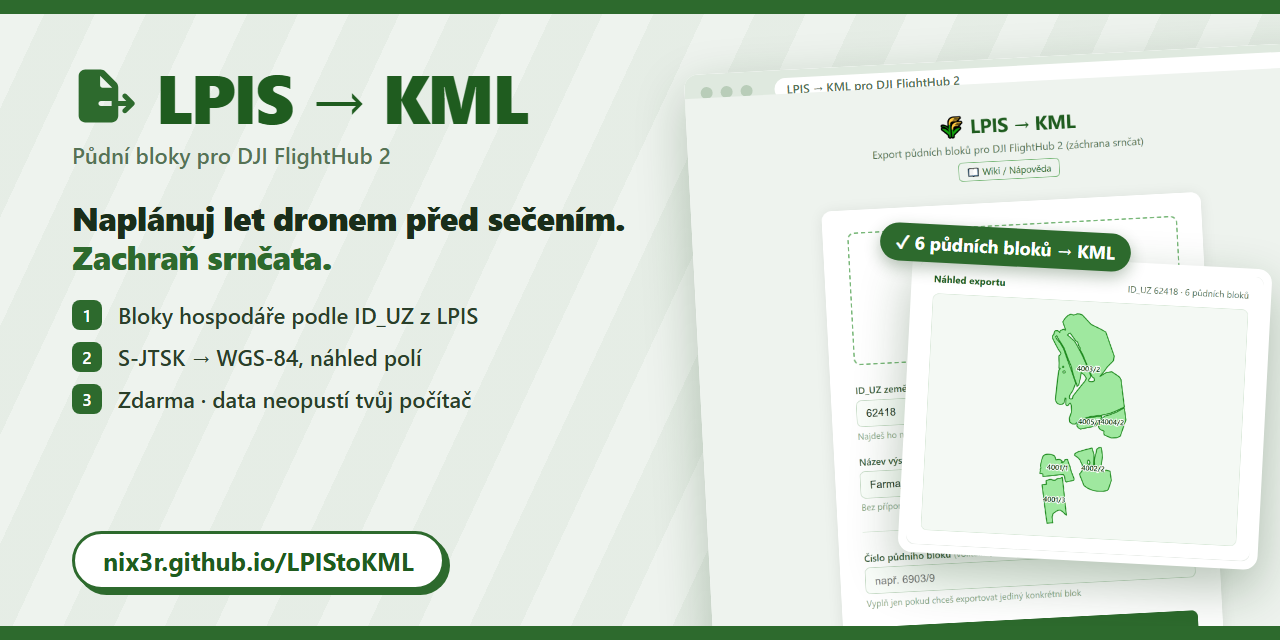
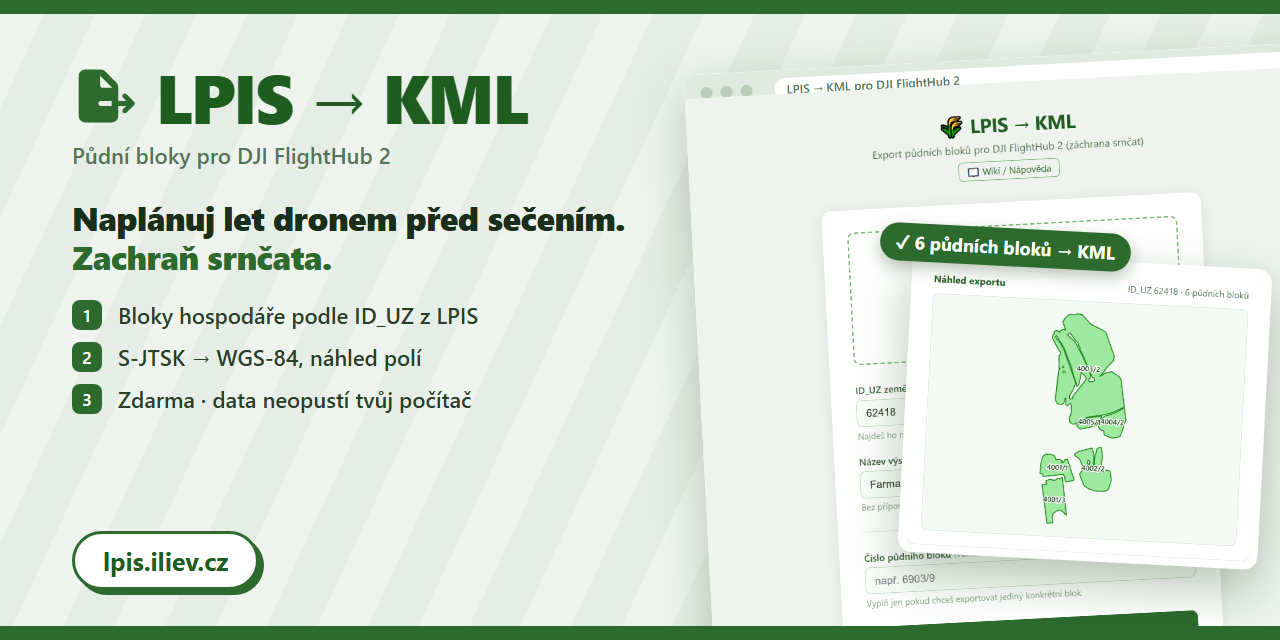
Custom domain lpis.iliev.cz: link previews, README links, og:image

Changed region(s): [[0.0625, 0.8125, 0.375, 0.9375]]

diff --git a/web/index.html b/web/index.html
@@ -13,8 +13,8 @@
   <meta property="og:locale" content="cs_CZ" />
   <meta property="og:title" content="LPIS → KML pro DJI FlightHub 2" />
   <meta property="og:description" content="Půdní bloky hospodáře z LPIS jako KML pro DJI FlightHub 2. Naplánuj let dronem před sečením a zachraň srnčata. Zdarma, data neopustí tvůj počítač." />
-  <meta property="og:url" content="https://nix3r.github.io/LPIStoKML/" />
-  <meta property="og:image" content="https://nix3r.github.io/LPIStoKML/og-image.png" />
+  <meta property="og:url" content="https://lpis.iliev.cz/" />
+  <meta property="og:image" content="https://lpis.iliev.cz/og-image.png" />
   <meta property="og:image:width" content="1280" />
   <meta property="og:image:height" content="640" />
   <meta property="og:image:alt" content="LPIS → KML: převodník půdních bloků s náhledem exportovaných polí" />

diff --git a/web/wiki.html b/web/wiki.html
@@ -12,8 +12,8 @@
   <meta property="og:locale" content="cs_CZ" />
   <meta property="og:title" content="Wiki – LPIS → KML pro DJI FlightHub 2" />
   <meta property="og:description" content="Návod krok za krokem: ID_UZ, stažení SHP dat z LPIS, převod na KML a import do DJI FlightHub 2." />
-  <meta property="og:url" content="https://nix3r.github.io/LPIStoKML/wiki.html" />
-  <meta property="og:image" content="https://nix3r.github.io/LPIStoKML/og-image.png" />
+  <meta property="og:url" content="https://lpis.iliev.cz/wiki.html" />
+  <meta property="og:image" content="https://lpis.iliev.cz/og-image.png" />
   <meta property="og:image:width" content="1280" />
   <meta property="og:image:height" content="640" />
   <meta property="og:image:alt" content="LPIS → KML: převodník půdních bloků s náhledem exportovaných polí" />

diff --git a/tools/og-image.html b/tools/og-image.html
@@ -84,7 +84,7 @@
       <li><span>3</span>Zdarma · data neopustí tvůj počítač</li>
     </ul>
   </div>
-  <div class="url">nix3r.github.io/LPIStoKML</div>
+  <div class="url">lpis.iliev.cz</div>
 
   <div class="window">
     <div class="bar"><i></i><i></i><i></i><b>LPIS → KML pro DJI FlightHub 2</b></div>

diff --git a/README.md b/README.md
@@ -4,9 +4,9 @@ A web app that converts Czech agricultural land parcel data (LPIS) from Shapefil
 
 Primary use case: scanning fields with a drone before mowing to rescue fawns and other wildlife.
 
-[![LPIS → KML](docs/images/thumbnail.png)](https://nix3r.github.io/LPIStoKML/)
+[![LPIS → KML](docs/images/thumbnail.png)](https://lpis.iliev.cz/)
 
-**▶ Live app: [nix3r.github.io/LPIStoKML](https://nix3r.github.io/LPIStoKML/)** · [Wiki (CZ)](https://nix3r.github.io/LPIStoKML/wiki.html)
+**▶ Live app: [lpis.iliev.cz](https://lpis.iliev.cz/)** · [Wiki (CZ)](https://lpis.iliev.cz/wiki.html)
 
 Runs entirely in the browser: the ZIP is unpacked, filtered and reprojected on your computer and never uploaded anywhere. The whole app is a static page, hosted on GitHub Pages.
 
